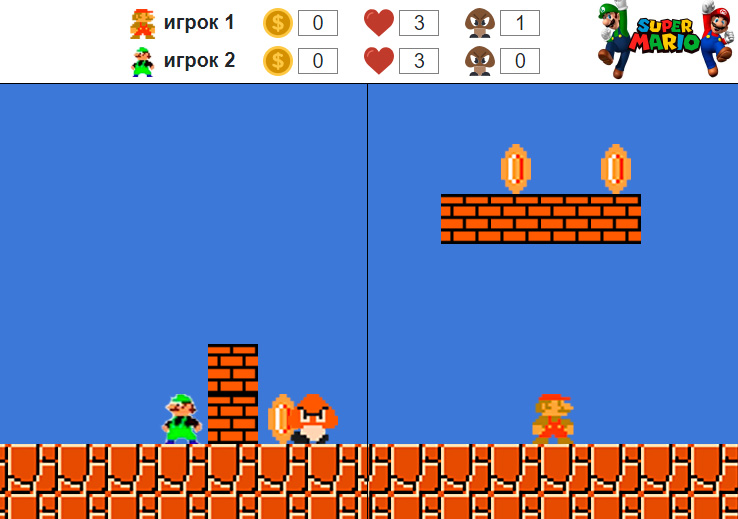
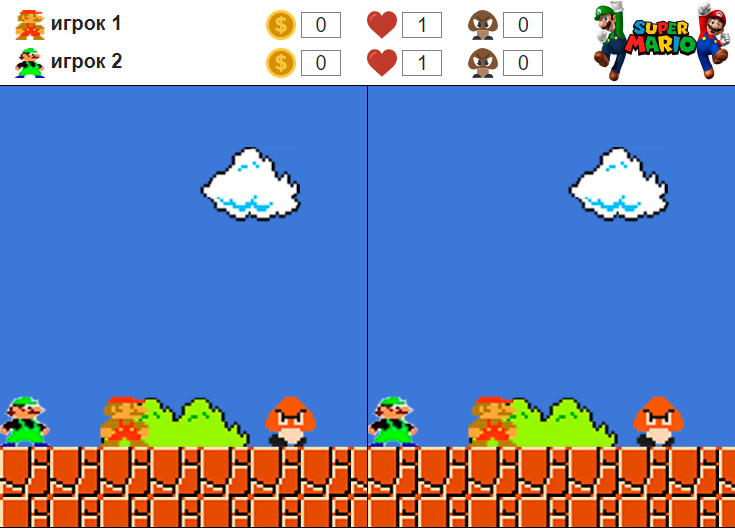
new background

Changed region(s): [[0.0, 0.0, 1.0, 1.0], [0.5986, 0.2775, 0.9279, 0.4933], [0.2694, 0.2775, 0.419, 0.4316]]

diff --git a/mario/web/js/collision_player.js b/mario/web/js/collision_player.js
@@ -12,18 +12,6 @@ const OBJECT_TYPE = {
     ENEMY: 3,
 };
 
-// for (const arr of arrs)
-// {
-//     const [x, y, w, h] = arr;
-//     new DisplayObject({
-//         x,
-//         y,
-//         w,
-//         h,
-//     })
-// }
-
-
 function bottomScreenCollision(playerInfo) {
     const player = playerInfo.player;
     if (player.position.y > 500 - 2 * PLAYER_SIZE) {

diff --git a/mario/src/js/canvas.js b/mario/src/js/canvas.js
@@ -1,5 +1,4 @@
 const canvasWrapper = document.getElementById('canvasWrapper');
-
 const canvas1 = document.getElementById('canvas1');
 const canvas2 = document.getElementById('canvas2');
 

diff --git a/mario/web/js/canvas.js b/mario/web/js/canvas.js
@@ -1,5 +1,4 @@
 const canvasWrapper = document.getElementById('canvasWrapper');
-
 const canvas1 = document.getElementById('canvas1');
 const canvas2 = document.getElementById('canvas2');
 
